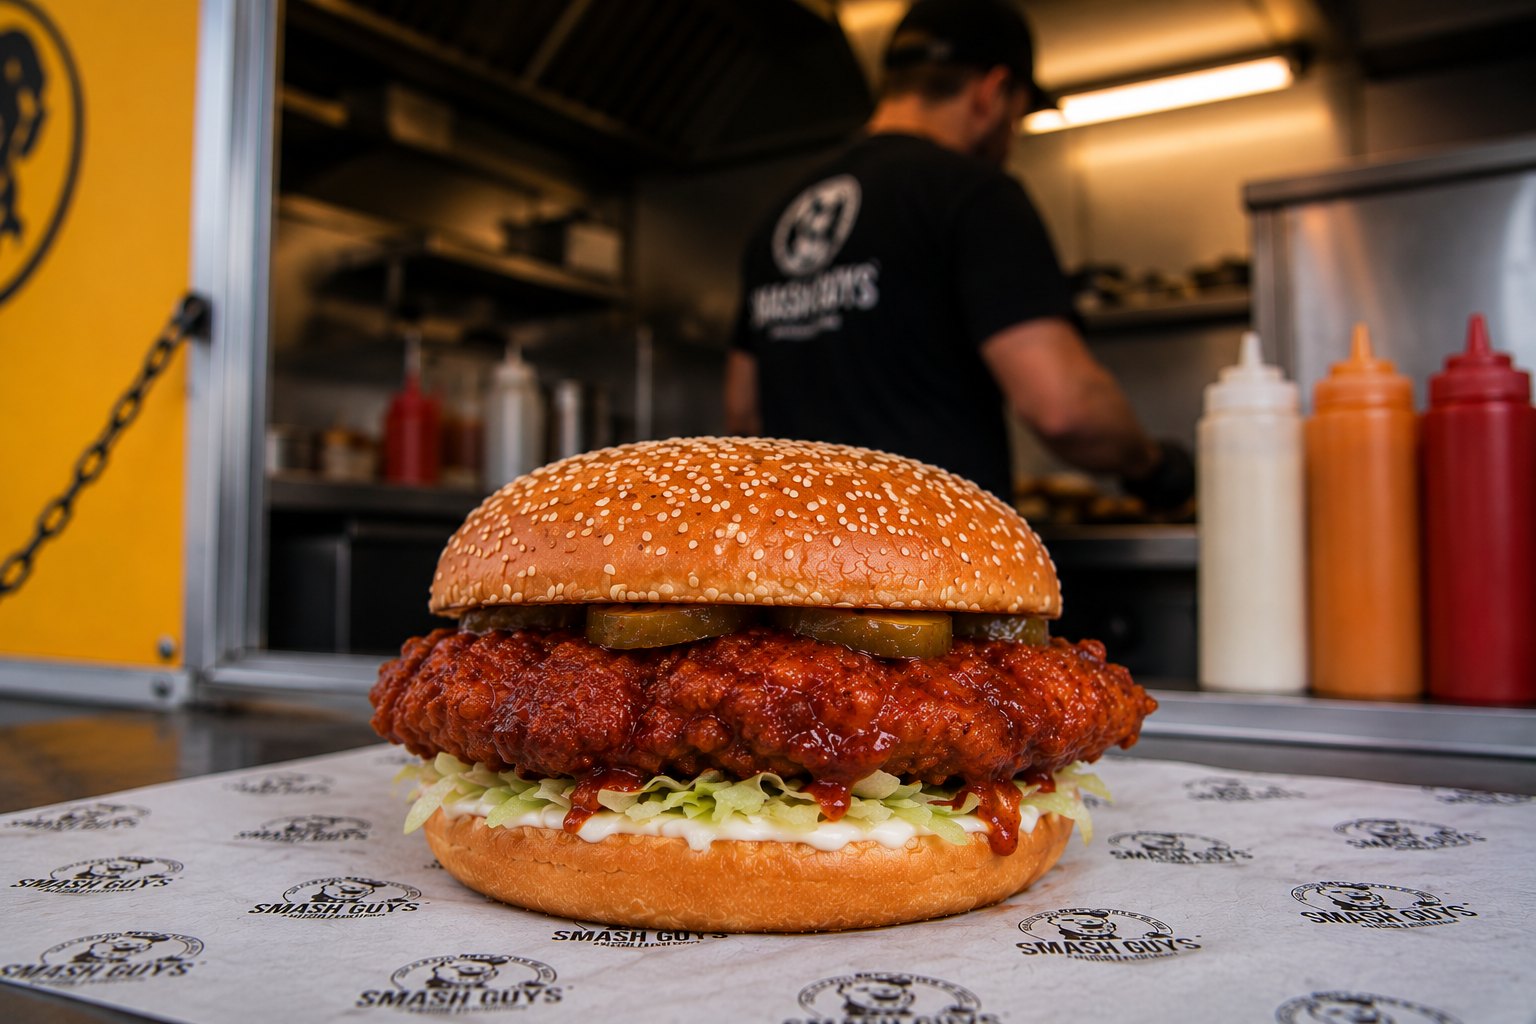
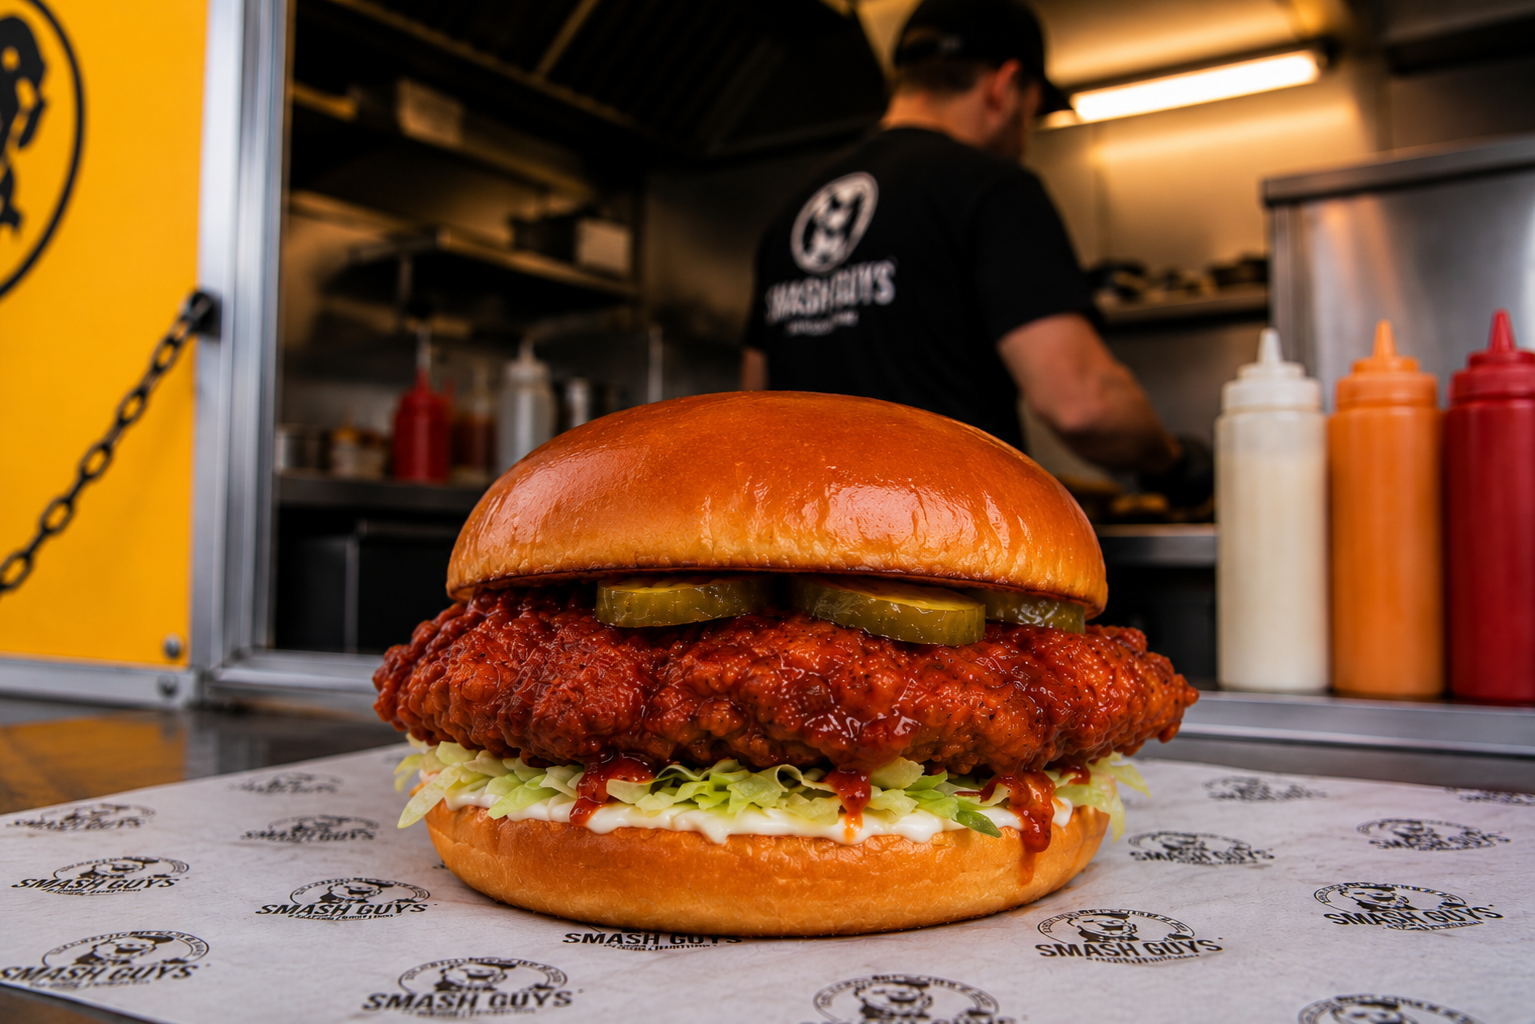
Images changed

diff --git a/index.html b/index.html
@@ -33,7 +33,7 @@
 
     <!-- Hero Section -->
     <section class="relative h-screen flex flex-col justify-center items-center text-center overflow-hidden">
-        <div class="absolute inset-0 z-0 bg-[url('https://images.unsplash.com/photo-1586190848861-99aa4a171e90?q=80&w=2000&auto=format&fit=crop')] bg-cover bg-center opacity-30"></div>
+        <div class="absolute inset-0 z-0 bg-[url('Cover.png')] bg-cover bg-center opacity-30"></div>
         <div class="absolute inset-0 z-0 bg-gradient-to-t from-primary to-transparent"></div>
         <div class="absolute inset-0 z-0 grease-overlay"></div>
         
@@ -73,7 +73,7 @@
     <section class="py-24 bg-primary relative border-b border-grey" data-aos="fade-up">
         <div class="container mx-auto px-4 flex flex-col md:flex-row items-center gap-12">
             <div class="md:w-1/2">
-                <img src="https://images.unsplash.com/photo-1550547660-d9450f859349?q=80&w=800&auto=format&fit=crop" class="rounded-xl border-4 border-accent shadow-[0_0_50px_rgba(255,212,0,0.2)] transform -rotate-3" alt="Fusion Friday Authentic Burger">
+                <img src="Friday-Fusion.png" class="rounded-xl border-4 border-accent shadow-[0_0_50px_rgba(255,212,0,0.2)] transform -rotate-3" alt="Fusion Friday Authentic Burger">
             </div>
             <div class="md:w-1/2">
                 <span class="bg-white text-primary px-3 py-1 font-bold uppercase text-sm mb-4 inline-block">Limited Time</span>
